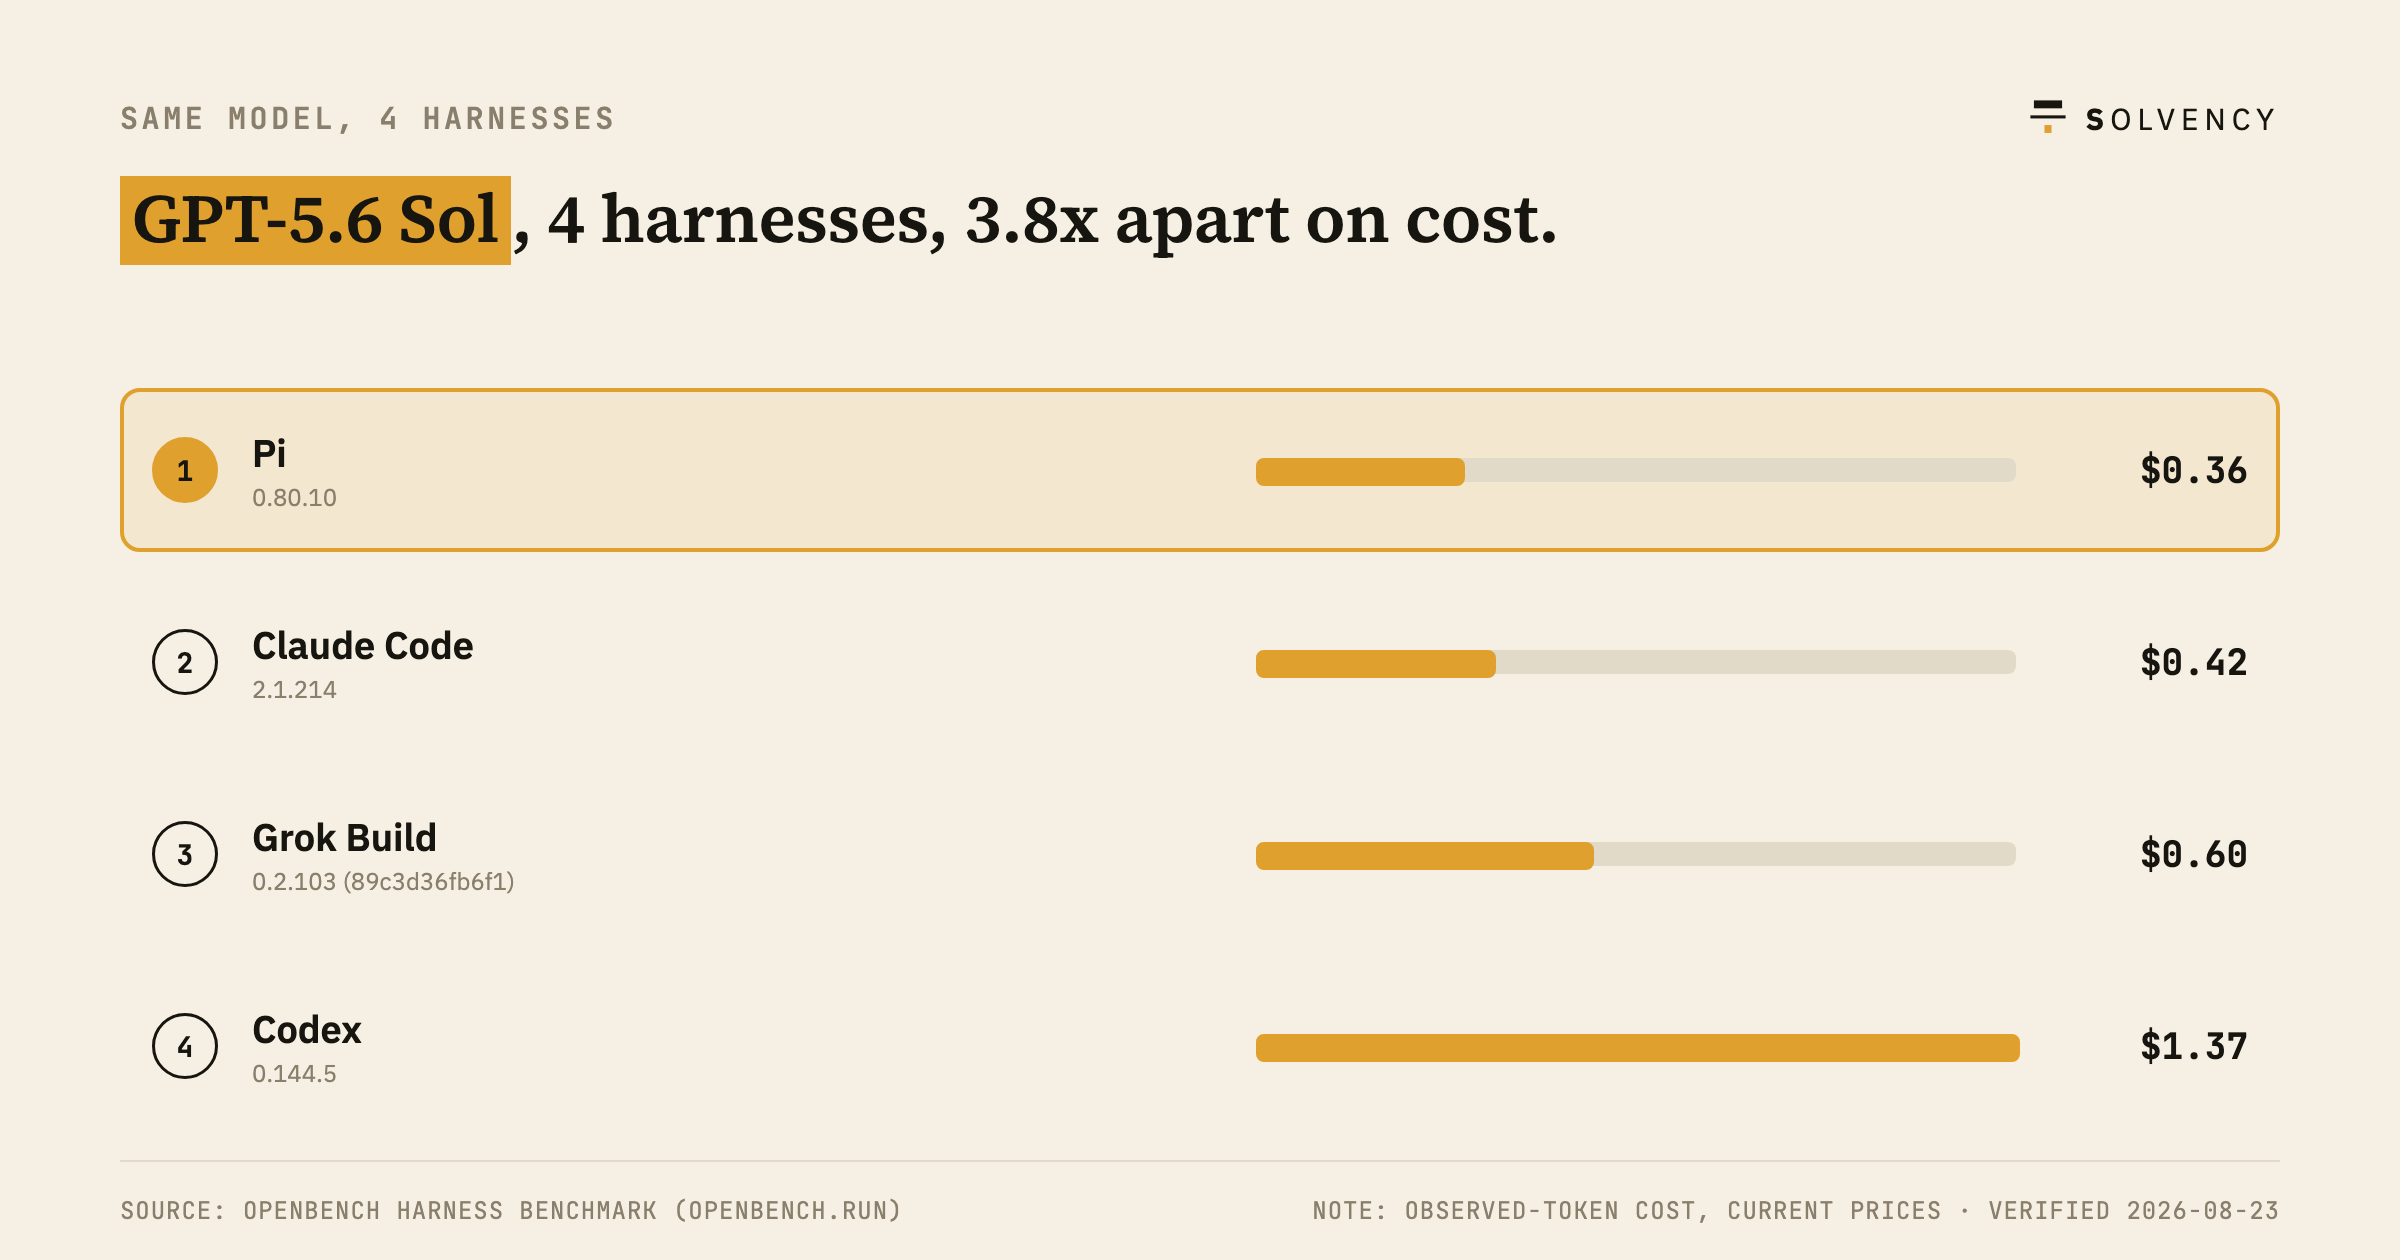
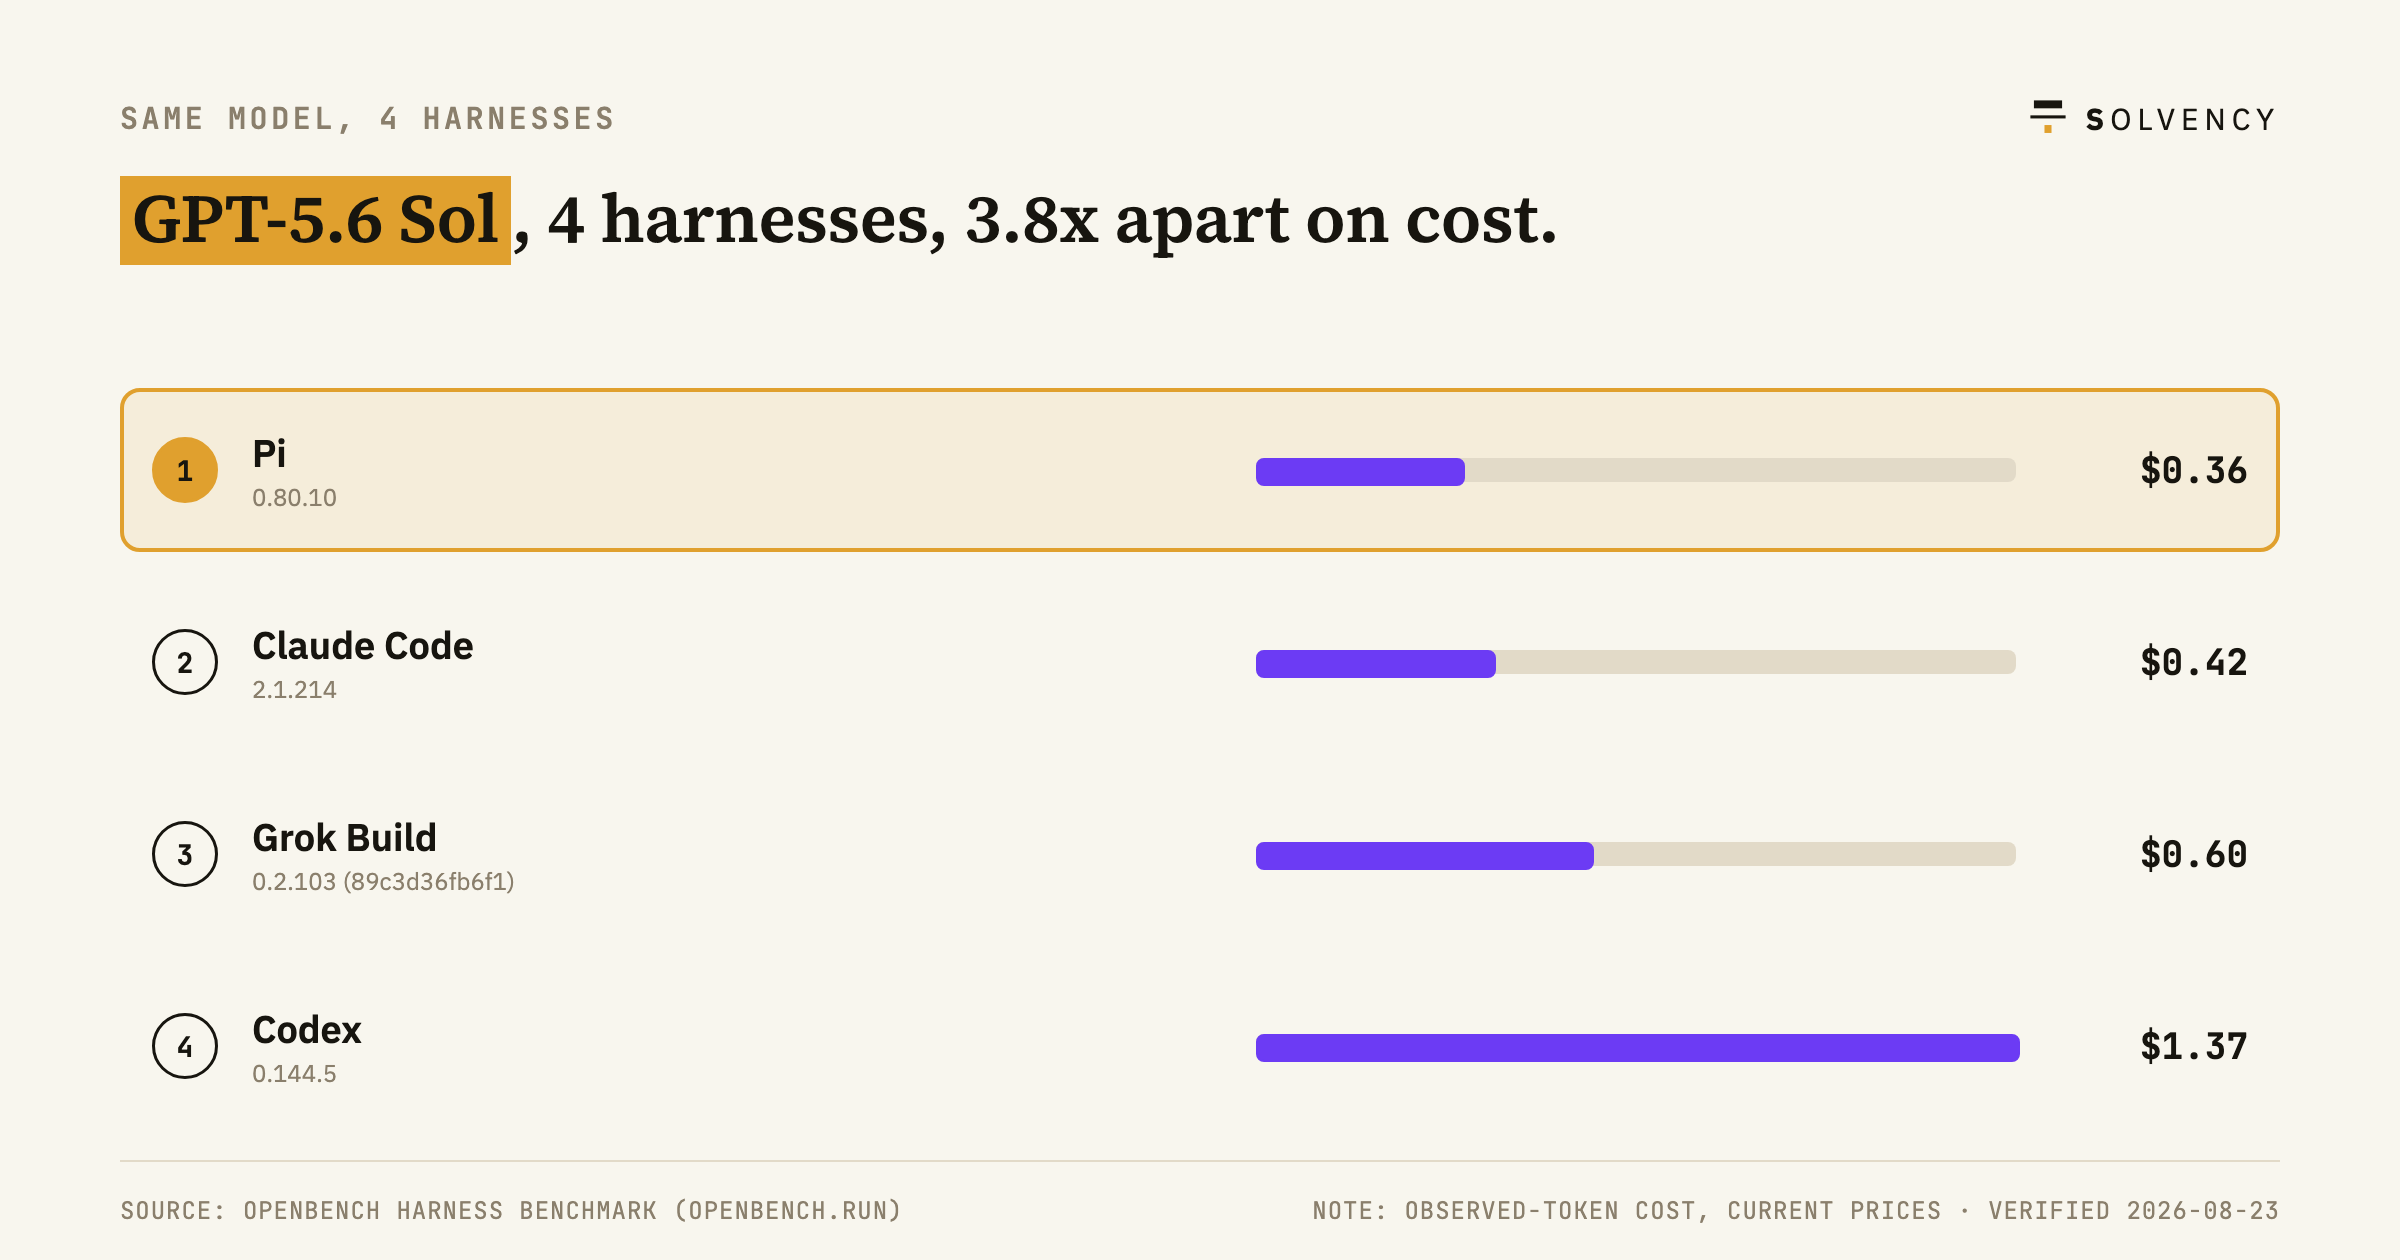
Ranked cards: switch data bars to the founder-approved purple
Measured and harness (source_usage_repriced) bars are now solid vivid
purple (#6C3BF4), and modelled bars are the same purple hatched,
replacing the old periwinkle — matching the redesign's data-accent
system (docs/redesign-2026-08/direction.md §1/§3 on redesign-arena).
Brand amber is untouched: headline highlighter, #1-row outline, #1
circle stay exactly where the founder liked them.

Also: card ground moves to the site's cream (#F8F6EE, was #F5F0E3);
provider chips are colored, using the same vendored brand marks and
hex assignments as site/src/lib/providers.ts on redesign-arena
(anthropic/google/mistral/deepseek SVGs copied into
site/public/brand/providers/, openai/xai keep a colored monogram);
and the modelled-leaderboard headline is rewritten from the clunky
"<Model> is cheapest among modelled models." to natural measured
voice: "Our loop model prices <Model> lowest — $X.XX per solved
task." with the number dynamic.

The 20 existing non-ranked cards are unaffected — verified
byte-identical before/after by sha256. Full suite green (432/432).

diff --git a/scripts/og-cards.ts b/scripts/og-cards.ts
@@ -32,6 +32,7 @@ import {
 const OUT = join(ROOT, 'reports', 'og-cards');
 const TMP = join(ROOT, 'reports', 'build', '_og-cards');
 const FONTS = join(ROOT, 'site', 'public', 'fonts');
+const BRAND_DIR = join(ROOT, 'site', 'public', 'brand', 'providers');
 const CHROME = '/Applications/Google Chrome.app/Contents/MacOS/Google Chrome';
 
 const BG = '#0A0C0D', INK = '#E6EAED', MUTED = '#78838A', ACCENT = '#E0A02E', RULE = '#1C2226';
@@ -52,6 +53,7 @@ function shot(html: string, w: number, h: number, out: string, scale = 2) {
 }
 
 const fontUrl = (file: string) => pathToFileURL(join(FONTS, file)).href;
+const providerMarkUrl = (file: string) => pathToFileURL(join(BRAND_DIR, file)).href;
 const FONT_FACE_CSS = `
   @font-face { font-family: 'JetBrains Mono'; font-style: normal; font-weight: 400 800; src: url('${fontUrl('jetbrains-mono-latin.woff2')}') format('woff2'); }
   @font-face { font-family: 'Source Serif 4'; font-style: normal; font-weight: 200 900; src: url('${fontUrl('source-serif-4-latin.woff2')}') format('woff2'); }
@@ -119,11 +121,42 @@ function render(card: CardData) {
 // feed of other dark cards) and it matches the founder's Arena.ai reference.
 // Brand-consistent regardless: the mark, wordmark and headline highlight are
 // the same brand amber (#E0A02E) the dark cards use; site/public/brand/mark.svg
-// and lockup.svg already ship this exact ink-on-light variant.
+// and lockup.svg already ship this exact ink-on-light variant. Bars use the
+// purple data accent (RC_PURPLE below), not amber — see basisBarCss.
 // ---------------------------------------------------------------------------
-const RC_BG = '#F5F0E3', RC_INK = '#17150F', RC_MUTED = '#8A7F6C', RC_RULE = '#E2DAC8';
-const RC_MODELLED = '#8FA0D8', RC_STALE = '#E8895A';
+const RC_BG = '#F8F6EE', RC_INK = '#17150F', RC_MUTED = '#8A7F6C', RC_RULE = '#E2DAC8';
+// Data accent (docs/redesign-2026-08/direction.md §1/§3, stage 1.1 color
+// note): a vivid violet, the same hue for both measured (solid) and
+// modelled (hatched) bars — the hatch alone carries the basis distinction.
+// Brand amber is reserved for highlight/brand duty only (headline
+// highlighter, #1-row outline + circle below) and never doubles as a bar
+// color, so the two jobs stay visually separate.
+const RC_PURPLE = '#6C3BF4', RC_STALE = '#E8895A';
 const RC_LEAD_TINT = 'rgba(224,160,46,0.10)';
+
+/**
+ * Colored provider chips (direction doc §4), mirroring site/src/lib/providers.ts
+ * on redesign-arena so cards and site agree once merged: vendored marks (their
+ * own official brand hex, see site/public/brand/providers/LOGOS.md, copied into
+ * this branch) for providers with a license-clean asset; a Solvency-assigned
+ * monogram color — never presented as an official brand color — for the two
+ * that don't (openai, xai).
+ */
+const PROVIDER_MARK_FILES: Record<string, string> = {
+  anthropic: 'anthropic.svg', google: 'google.svg', mistral: 'mistral.svg', deepseek: 'deepseek.svg',
+};
+const CHIP_BG = '#F4F3F1', CHIP_BORDER = '#CFCCC6';
+const MONOGRAM_COLORS: Record<string, string> = { openai: '#0F7A63', xai: '#9C4A75' };
+
+function chipHtml(provider: string | undefined, text: string): string {
+  const markFile = provider ? PROVIDER_MARK_FILES[provider] : undefined;
+  if (markFile) {
+    return `<span class="chip chip-mark"><img src="${providerMarkUrl(markFile)}" width="14" height="14" alt=""/></span>`;
+  }
+  const mono = provider ? MONOGRAM_COLORS[provider] : undefined;
+  const bg = mono ?? CHIP_BG, fg = mono ? '#FFFFFF' : RC_INK, border = mono ?? CHIP_BORDER;
+  return `<span class="chip" style="background:${bg};color:${fg};border-color:${border}">${esc(text)}</span>`;
+}
 
 const RANKED_FONT_FACE_CSS = FONT_FACE_CSS + `
   @font-face { font-family: 'IBM Plex Sans'; font-style: normal; font-weight: 300 700; src: url('${fontUrl('ibm-plex-sans-latin.woff2')}') format('woff2'); }
@@ -135,24 +168,27 @@ const rankedMarkSvg = (px: number) =>
   `<rect x="10" y="44" width="80" height="7" fill="${RC_INK}"/>` +
   `<rect x="42" y="66" width="16" height="18" fill="${BRAND_AMBER}"/></svg>`;
 
-/** Measured/harness bars are solid amber (both are observed-cost bases, no
- * loop assumption); modelled bars are hatched periwinkle; stale bars are a
- * dashed hollow outline — same basis semantics as site/src/lib/charts.ts,
- * just CSS instead of an SVG pattern. */
+/** Measured/harness bars are solid purple (both are observed-cost bases, no
+ * loop assumption — harness rows are source_usage_repriced, same solid
+ * treatment as measured); modelled bars are the same purple hatched; stale
+ * bars are a dashed hollow outline — same basis semantics as
+ * site/src/lib/charts.ts, just CSS instead of an SVG pattern. Brand amber
+ * never appears here; it is reserved for the headline highlight and the
+ * #1-row outline/circle. */
 function basisBarCss(basis: RankedBasis): string {
   if (basis === 'modelled') {
-    return `background:repeating-linear-gradient(135deg, ${RC_MODELLED}, ${RC_MODELLED} 3px, transparent 3px, transparent 7px);border:1px solid ${RC_MODELLED}`;
+    return `background:repeating-linear-gradient(135deg, ${RC_PURPLE}, ${RC_PURPLE} 3px, transparent 3px, transparent 7px);border:1px solid ${RC_PURPLE}`;
   }
   if (basis === 'stale') {
     return `background:transparent;border:1.5px dashed ${RC_STALE}`;
   }
-  return `background:${BRAND_AMBER};border:1px solid ${BRAND_AMBER}`; // measured, harness
+  return `background:${RC_PURPLE};border:1px solid ${RC_PURPLE}`; // measured, harness
 }
 
 function rankedRowHtml(r: RankedRow, rank: number, maxCost: number, rowH: number): string {
   const pct = maxCost > 0 ? Math.max(4, Math.round((r.cost / maxCost) * 100)) : 4;
   const secondary = r.sub ? `<span class="sub">${esc(r.sub)}</span>`
-    : r.chip ? `<span class="chip">${esc(r.chip)}</span>` : '';
+    : r.chip ? chipHtml(r.provider, r.chip) : '';
   return `<div class="row${rank === 1 ? ' lead' : ''}" style="height:${rowH}px">
       <div class="rank">${rank}</div>
       <div class="who"><span class="name">${esc(r.name)}</span>${secondary}</div>
@@ -213,8 +249,11 @@ function rankedCardHtml(card: RankedCardData): string {
     .who{display:flex;flex-direction:column;gap:2px;min-width:0}
     .name{font-weight:600;font-size:19px;color:${RC_INK};white-space:nowrap;overflow:hidden;text-overflow:ellipsis}
     .sub{font-size:12px;color:${RC_MUTED}}
-    .chip{width:fit-content;padding:1px 6px;border-radius:4px;background:${RC_RULE};
-      font-size:11px;font-weight:700;letter-spacing:.04em;color:${RC_INK}}
+    .chip{width:fit-content;padding:1px 6px;border-radius:4px;border:1px solid transparent;
+      font-size:11px;font-weight:700;letter-spacing:.04em}
+    .chip-mark{padding:3px;display:flex;align-items:center;justify-content:center;
+      background:${CHIP_BG};border-color:${CHIP_BORDER}}
+    .chip-mark img{display:block}
     .track{position:relative;height:12px;border-radius:4px;background:${RC_RULE}}
     .bar{position:absolute;left:0;top:0;height:100%;border-radius:4px}
     .val{font-family:'JetBrains Mono',monospace;font-weight:700;font-size:18px;color:${RC_INK};text-align:right}

diff --git a/scripts/og-card-data.ts b/scripts/og-card-data.ts
@@ -184,6 +184,8 @@ export interface RankedRow {
   sub?: string;
   /** Two-letter monogram chip, derived from `provider` — never a scraped logo. */
   chip?: string;
+  /** data/models.json provider id, e.g. 'anthropic' — drives the chip's color/mark (scripts/og-cards.ts). */
+  provider?: string;
   /** $ per solved task. */
   cost: number;
   /** money()-formatted, mono. */
@@ -234,6 +236,7 @@ export function rankedCostCardData(): RankedCardData {
     id: r.m.model_id,
     name: r.m.display_name,
     chip: monogram(r.m.provider),
+    provider: r.m.provider,
     cost: r.cost,
     value: money(r.cost),
     basis: 'measured',
@@ -332,6 +335,7 @@ export function rankedModelledCardData(): RankedCardData | null {
     id: r.m.model_id,
     name: r.m.display_name,
     chip: monogram(r.m.provider),
+    provider: r.m.provider,
     cost: r.cost,
     value: money(r.cost),
     basis: 'modelled',
@@ -343,9 +347,13 @@ export function rankedModelledCardData(): RankedCardData | null {
   return {
     key: 'ranked-modelled-cost-per-solved-task',
     eyebrow: 'COST PER SOLVED TASK, MODELLED · LEGACY & PREVIEW MODELS',
-    headlinePrefix: '',
+    // Rewritten from the founder-flagged "<Model> is cheapest among modelled
+    // models." (clunky, doubled "modelled") to natural measured voice: say
+    // what Solvency's loop model actually did (priced it), and lead with the
+    // number, same as the measured card's headline pattern.
+    headlinePrefix: 'Our loop model prices ',
     headlineHighlight: leader.name,
-    headlineSuffix: ' is cheapest among modelled models.',
+    headlineSuffix: ` lowest — ${leader.value} per solved task.`,
     rows,
     sourceLine: `Source: Scale SEAL, SWE-bench Pro (${domainOf(src.source_url)})`,
     noteLine: `NOTE: MODELLED COST, TASK-TIER MODEL · VERIFIED ${src.last_verified}`,
